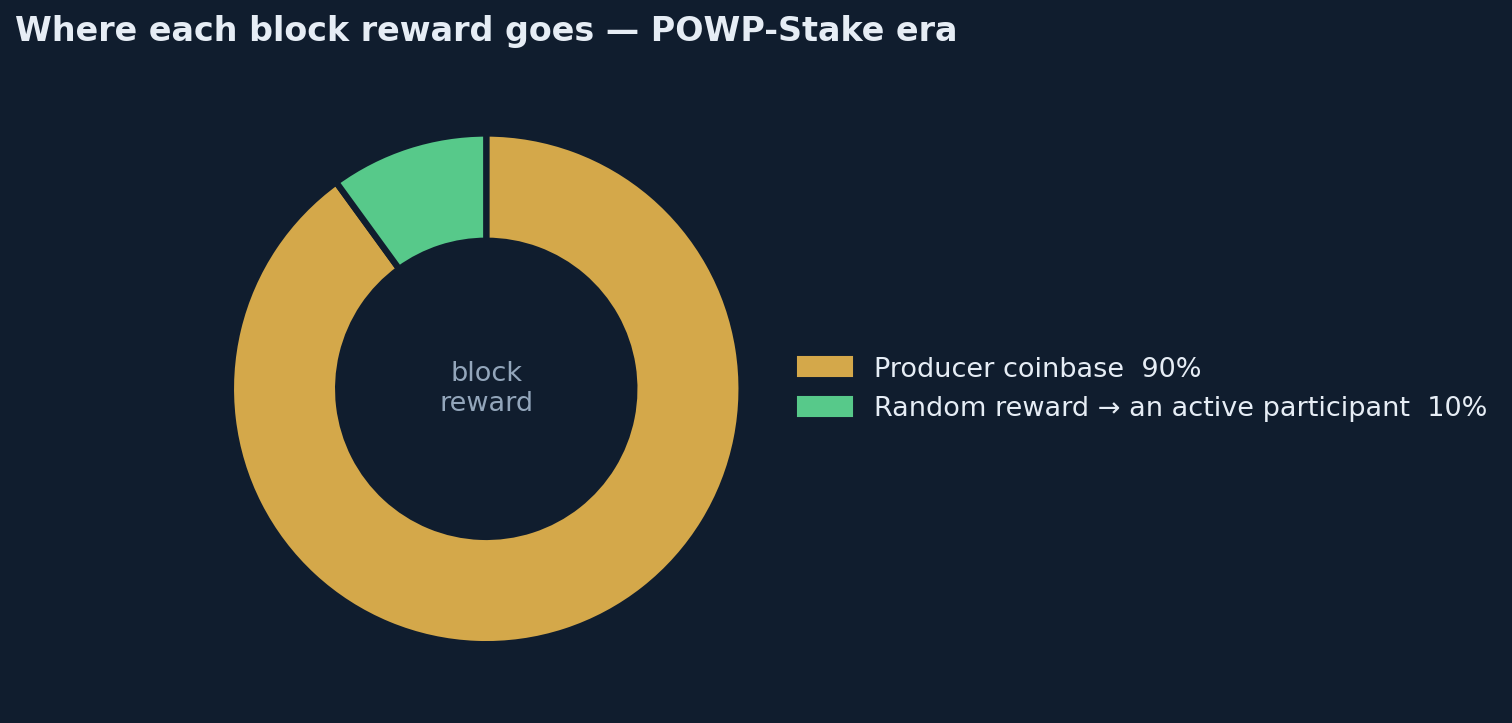
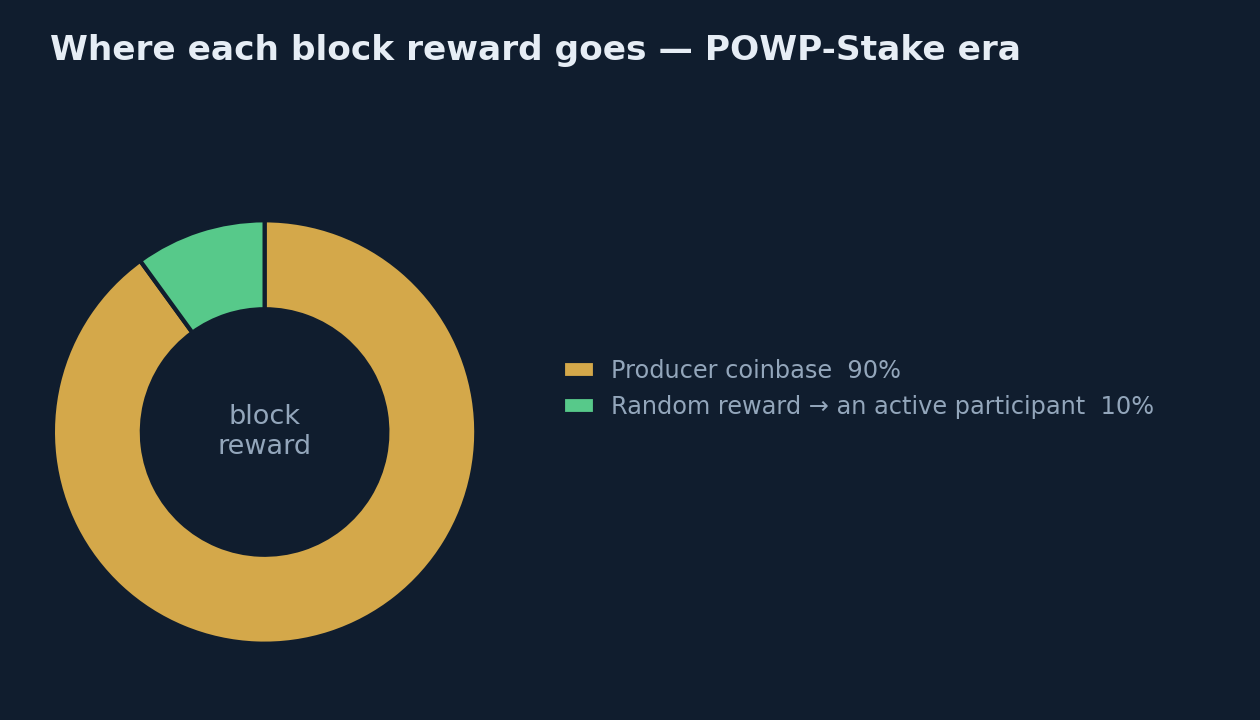
docs(readme): make the three economics charts uniform
reward_split.png was a wide donut+side-legend (2.09:1, shown at width 560) while
supply/fee_split are ~1.75:1 at width 620 — so the first rendered both narrower and
shorter. Regenerated reward_split at the same ~1.75:1 frame (1260×720) and set its
README width to 620, so all three render at the same 620×354. Same palette/style
(navy bg, gold/green, light title), full legend in-frame.

Changed region(s): [[0.031, 0.1833, 0.9905, 0.9167], [0.0, 0.0, 0.8048, 0.0917]]

diff --git a/README.md b/README.md
@@ -87,7 +87,7 @@ The demand-responsive base fee is partly **burned** (net deflation) and partly
 fixed, predictable schedule — the block reward halves every 2,000,000 blocks, with total
 supply approaching a hard cap of 1,000,000,000 TESC.
 
-<p align="center"><img src="assets/reward_split.png" alt="Block reward split in the POWP-Stake era — 90% producer coinbase, 10% stake-weighted random reward to an active participant" width="560"></p>
+<p align="center"><img src="assets/reward_split.png" alt="Block reward split in the POWP-Stake era — 90% producer coinbase, 10% stake-weighted random reward to an active participant" width="620"></p>
 <p align="center"><img src="assets/supply.png" alt="Circulating supply rising to the 1,000,000,000 TESC hard cap, with the block reward halving every 2,000,000 blocks" width="620"></p>
 <p align="center"><img src="assets/fee_split.png" alt="Where the demand-responsive base fee goes — half to the producer, and either destroyed (deflation) or redirected to librarians in recall mode" width="620"></p>
 
